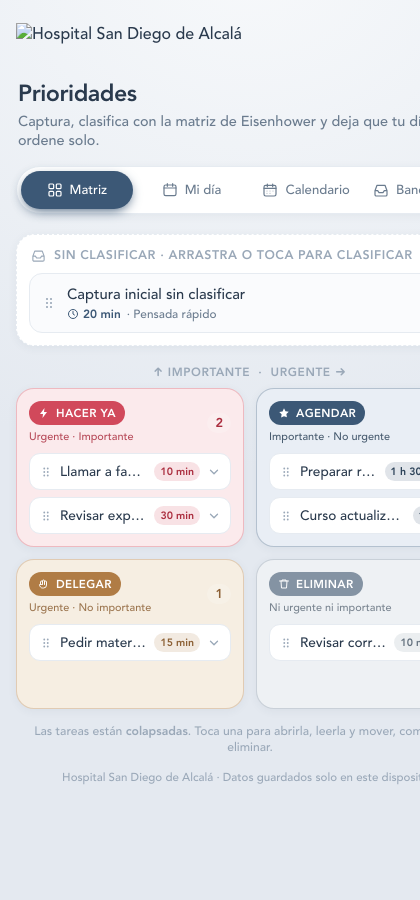
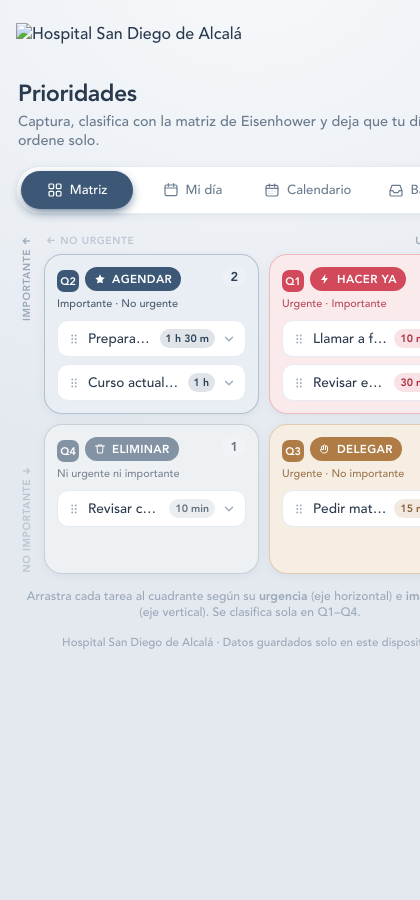
Matriz estilo Eisenhower: ejes Importante/Urgente y cuadrantes Q1-Q4
- Ejes visibles: vertical Importante↑, horizontal Urgente→
- Rejilla 2x2 en orden clásico (Q2|Q1 arriba, Q4|Q3 abajo)
- Badge numerado Q1-Q4 en cada cuadrante y en el panel móvil
- Al soltar una tarea en un cuadrante se clasifica automáticamente
- Instructivo actualizado con el diagrama de la matriz

diff --git a/index.html b/index.html
@@ -170,16 +170,24 @@
   .mini svg { width: 15px; height: 15px; }
   .mini.ok:hover, .mini.ok.on { color: #fff; background: var(--plan); border-color: var(--plan); }
 
-  /* Matrix */
-  .axis-top { text-align: center; font-size: .74rem; font-weight: 800; letter-spacing: .05em; text-transform: uppercase; color: var(--ink-faint); margin-bottom: 8px; }
-  .matrix { display: grid; grid-template-columns: minmax(0, 1fr) minmax(0, 1fr); gap: 12px; }
+  /* Matriz con ejes Importante/Urgente */
+  .matrix-shell { display: flex; gap: 6px; align-items: stretch; }
+  .axis-y { width: 22px; flex-shrink: 0; display: flex; flex-direction: column; justify-content: space-between; align-items: center; padding: 2px 0; }
+  .axis-y .axis-label { writing-mode: vertical-rl; transform: rotate(180deg); font-size: .64rem; font-weight: 800; letter-spacing: .06em; text-transform: uppercase; color: var(--ink-faint); white-space: nowrap; }
+  .axis-y .axis-label.faint { opacity: .55; }
+  .matrix-body { flex: 1; min-width: 0; display: flex; flex-direction: column; gap: 6px; }
+  .axis-x { display: flex; justify-content: space-between; padding: 0 2px; }
+  .axis-x .axis-label { font-size: .64rem; font-weight: 800; letter-spacing: .06em; text-transform: uppercase; color: var(--ink-faint); }
+  .axis-x .axis-label.faint { opacity: .55; }
+  .matrix { display: grid; grid-template-columns: minmax(0, 1fr) minmax(0, 1fr); gap: 10px; }
   .quad { min-width: 0; border-radius: 18px; padding: 12px; min-height: 150px; border: 1.5px solid var(--qline); background: var(--qsoft); box-shadow: var(--shadow-sm); display: flex; flex-direction: column; transition: outline .15s, transform .15s; }
   .quad.q-do    { --qc: var(--do);    --qd: var(--do-deep);    --qsoft: var(--do-soft);    --qline: color-mix(in srgb, var(--do) 30%, transparent); }
   .quad.q-plan  { --qc: var(--plan);  --qd: var(--plan-deep);  --qsoft: var(--plan-soft);  --qline: color-mix(in srgb, var(--plan) 30%, transparent); }
   .quad.q-deleg { --qc: var(--deleg); --qd: var(--deleg-deep); --qsoft: var(--deleg-soft); --qline: color-mix(in srgb, var(--deleg) 30%, transparent); }
   .quad.q-del   { --qc: var(--del);   --qd: var(--del-deep);   --qsoft: var(--del-soft);   --qline: color-mix(in srgb, var(--del) 35%, transparent); }
   .quad.over { outline: 2.5px dashed var(--qc); outline-offset: 2px; transform: translateY(-2px); }
-  .quad-head { display: flex; align-items: center; justify-content: space-between; margin-bottom: 9px; }
+  .quad-head { display: flex; align-items: flex-start; justify-content: space-between; margin-bottom: 9px; gap: 6px; }
+  .quad-num { display: inline-grid; place-items: center; width: 22px; height: 22px; border-radius: 7px; font-size: .68rem; font-weight: 800; color: #fff; background: var(--qc); margin-right: 6px; vertical-align: middle; }
   .quad-tag { display: inline-flex; align-items: center; gap: 6px; font-size: .72rem; font-weight: 800; letter-spacing: .03em; color: #fff; background: var(--qc); padding: 4px 9px; border-radius: 100px; }
   .quad-tag svg { width: 12px; height: 12px; }
   .quad-sub { font-size: .68rem; color: var(--qd); font-weight: 500; opacity: .85; }
@@ -249,6 +257,7 @@
   .sheet-opt { border: 1.5px solid var(--qline); background: var(--qsoft); color: var(--qd); border-radius: 14px; padding: 12px; font-family: inherit; font-weight: 800; font-size: .82rem; cursor: pointer; text-align: left; display: flex; flex-direction: column; gap: 3px; transition: transform .15s; }
   .sheet-opt:active { transform: scale(.96); }
   .sheet-opt small { font-weight: 500; font-size: .68rem; opacity: .8; }
+  .sheet-opt .sheet-q { display: inline-grid; place-items: center; width: 18px; height: 18px; border-radius: 6px; font-size: .62rem; font-weight: 800; color: #fff; background: var(--qc); margin-right: 6px; }
   .sheet-opt.q-do    { --qc: var(--do);    --qd: var(--do-deep);    --qsoft: var(--do-soft);    --qline: color-mix(in srgb, var(--do) 30%, transparent); }
   .sheet-opt.q-plan  { --qc: var(--plan);  --qd: var(--plan-deep);  --qsoft: var(--plan-soft);  --qline: color-mix(in srgb, var(--plan) 30%, transparent); }
   .sheet-opt.q-deleg { --qc: var(--deleg); --qd: var(--deleg-deep); --qsoft: var(--deleg-soft); --qline: color-mix(in srgb, var(--deleg) 30%, transparent); }
@@ -338,11 +347,19 @@ const MINS = [5, 10, 15, 30, 45, 60, 90, 120];
 const fmtMins = (m) => m >= 60 ? (m % 60 === 0 ? (m/60) + " h" : Math.floor(m/60) + " h " + (m%60) + " m") : m + " min";
 
 /* ---------------- Cuadrantes ---------------- */
+/* Modelo clásico de Eisenhower:
+   Eje vertical = Importante (arriba) / No importante (abajo)
+   Eje horizontal = Urgente (derecha) / No urgente (izquierda)
+   Q1 = Hacer ya  (urgente + importante)     — arriba derecha
+   Q2 = Agendar   (importante + no urgente)  — arriba izquierda
+   Q3 = Delegar   (urgente + no importante)  — abajo derecha
+   Q4 = Eliminar  (no urgente + no importante)— abajo izquierda
+   Al soltar una tarea en un cuadrante se asigna automáticamente su clasificación. */
 const QUADS = {
-  do:    { key:"do",    label:"HACER YA",  sub:"Urgente · Importante",     icon:I.bolt, cls:"q-do" },
-  plan:  { key:"plan",  label:"AGENDAR",   sub:"Importante · No urgente",  icon:I.star, cls:"q-plan" },
-  deleg: { key:"deleg", label:"DELEGAR",   sub:"Urgente · No importante",  icon:I.hand, cls:"q-deleg" },
-  del:   { key:"del",   label:"ELIMINAR",  sub:"Ni urgente ni importante", icon:I.trash, cls:"q-del" },
+  do:    { key:"do",    num:1, label:"HACER YA",  sub:"Urgente · Importante",      icon:I.bolt,  cls:"q-do",    urgent:true,  important:true  },
+  plan:  { key:"plan",  num:2, label:"AGENDAR",   sub:"Importante · No urgente",   icon:I.star,  cls:"q-plan",  urgent:false, important:true  },
+  deleg: { key:"deleg", num:3, label:"DELEGAR",   sub:"Urgente · No importante",   icon:I.hand,  cls:"q-deleg", urgent:true,  important:false },
+  del:   { key:"del",   num:4, label:"ELIMINAR",  sub:"Ni urgente ni importante",  icon:I.trash, cls:"q-del",   urgent:false, important:false },
 };
 const QUAD_ORDER = ["do","plan","deleg","del"];
 
@@ -594,6 +611,12 @@ function BandejaView({ title, setTitle, note, setNote, due, setDue, mins, setMin
 }
 
 /* ---------------- Matriz ---------------- */
+/* Orden de dibujo en la rejilla 2x2 (fila, columna):
+   arriba-izq = Q2 (Agendar)  ·  arriba-der = Q1 (Hacer ya)
+   abajo-izq  = Q4 (Eliminar) ·  abajo-der  = Q3 (Delegar)
+   Así coinciden los ejes: Importante↑ arriba, Urgente→ derecha. */
+const QUAD_GRID = ["plan","do","del","deleg"];
+
 function MatrixView({ inbox, pending, counts, onPick, onDragStart, onDropQuad, over, setOver, toggleDone, move, remove }) {
   const [openId, setOpenId] = useState(null);
   return (
@@ -607,42 +630,59 @@ function MatrixView({ inbox, pending, counts, onPick, onDragStart, onDropQuad, o
         </div>
       )}
 
-      <div className="axis-top">↑ Importante &nbsp;·&nbsp; Urgente →</div>
-      <div className="matrix">
-        {QUAD_ORDER.map(q => {
-          const Q = QUADS[q];
-          const items = pending(q);
-          return (
-            <div key={q}
-                 className={"quad " + Q.cls + (over === q ? " over" : "")}
-                 onDragOver={(e) => { e.preventDefault(); setOver(q); }}
-                 onDragLeave={() => setOver(o => o === q ? null : o)}
-                 onDrop={(e) => { e.preventDefault(); onDropQuad(q); }}>
-              <div className="quad-head">
-                <div>
-                  <span className="quad-tag">{Q.icon}{Q.label}</span>
-                  <div className="quad-sub" style={{ marginTop: 4 }}>{Q.sub}</div>
+      <div className="matrix-shell">
+        {/* Eje vertical: Importante */}
+        <div className="axis-y">
+          <span className="axis-label">Importante ↑</span>
+          <span className="axis-label faint">No importante ↓</span>
+        </div>
+
+        <div className="matrix-body">
+          {/* Eje horizontal */}
+          <div className="axis-x">
+            <span className="axis-label faint">← No urgente</span>
+            <span className="axis-label">Urgente →</span>
+          </div>
+
+          {/* Rejilla 2x2 */}
+          <div className="matrix">
+            {QUAD_GRID.map(q => {
+              const Q = QUADS[q];
+              const items = pending(q);
+              return (
+                <div key={q}
+                     className={"quad " + Q.cls + (over === q ? " over" : "")}
+                     onDragOver={(e) => { e.preventDefault(); setOver(q); }}
+                     onDragLeave={() => setOver(o => o === q ? null : o)}
+                     onDrop={(e) => { e.preventDefault(); onDropQuad(q); }}>
+                  <div className="quad-head">
+                    <div>
+                      <span className="quad-num">Q{Q.num}</span>
+                      <span className="quad-tag">{Q.icon}{Q.label}</span>
+                      <div className="quad-sub" style={{ marginTop: 4 }}>{Q.sub}</div>
+                    </div>
+                    {items.length > 0 && <span className="quad-n">{items.length}</span>}
+                  </div>
+                  {items.length === 0 ? (
+                    <div className="quad-empty">Suelta aquí → {Q.label}</div>
+                  ) : (
+                    <div className="chips">
+                      {items.map(t => (
+                        <MatrixChip key={t.id} t={t} q={q}
+                          open={openId === t.id}
+                          onToggleOpen={() => setOpenId(o => o === t.id ? null : t.id)}
+                          onDragStart={onDragStart} onMove={move} onDone={toggleDone} onRemove={remove} />
+                      ))}
+                    </div>
+                  )}
                 </div>
-                {items.length > 0 && <span className="quad-n">{items.length}</span>}
-              </div>
-              {items.length === 0 ? (
-                <div className="quad-empty">Suelta tareas aquí</div>
-              ) : (
-                <div className="chips">
-                  {items.map(t => (
-                    <MatrixChip key={t.id} t={t} q={q}
-                      open={openId === t.id}
-                      onToggleOpen={() => setOpenId(o => o === t.id ? null : t.id)}
-                      onDragStart={onDragStart} onMove={move} onDone={toggleDone} onRemove={remove} />
-                  ))}
-                </div>
-              )}
-            </div>
-          );
-        })}
+              );
+            })}
+          </div>
+        </div>
       </div>
       <div className="qa-hint" style={{ marginTop: 14, textAlign: "center" }}>
-        Las tareas están <b>colapsadas</b>. Toca una para abrirla, leerla y mover, completar o eliminar.
+        Arrastra cada tarea al cuadrante según su <b>urgencia</b> (eje horizontal) e <b>importancia</b> (eje vertical). Se clasifica sola en Q1–Q4.
       </div>
     </>
   );
@@ -946,11 +986,11 @@ function Sheet({ task, onClose, onMove, onDone, onRemove }) {
         <h3>{task.title}</h3>
         <div className="sub">{fmtMins(task.mins || 30)}{di ? " · " + di.text : ""}{task.note ? " · " + task.note : ""}</div>
         <div className="sheet-grid">
-          {QUAD_ORDER.map(q => {
+          {QUAD_GRID.map(q => {
             const Q = QUADS[q];
             return (
               <button key={q} className={"sheet-opt " + Q.cls} onClick={() => onMove(q)}>
-                {Q.label}<small>{Q.sub}</small>
+                <span className="sheet-q">Q{Q.num}</span>{Q.label}<small>{Q.sub}</small>
               </button>
             );
           })}

diff --git a/INSTRUCTIVO.md b/INSTRUCTIVO.md
@@ -102,21 +102,38 @@ La tarea aparecerá abajo en **"Sin clasificar"**, esperando a que la clasifique
 
 ## Paso 2 · Clasificar con la Matriz
 
-La **Matriz** distribuye tus tareas en 4 cuadrantes según **urgencia** e **importancia**.
+La **Matriz** distribuye tus tareas en 4 cuadrantes según **urgencia** (eje horizontal) e **importancia** (eje vertical), con la organización clásica de Eisenhower y cada cuadrante numerado de **Q1 a Q4**.
 
 ![Vista Matriz](docs/shot-matriz.png)
 
+### Cómo leer la matriz
+
+```
+                     ← No urgente        Urgente →
+                 ┌─────────────────┬─────────────────┐
+  Importante ↑   │   Q2 · AGENDAR  │  Q1 · HACER YA  │
+                 ├─────────────────┼─────────────────┤
+  No importante ↓│  Q4 · ELIMINAR  │  Q3 · DELEGAR   │
+                 └─────────────────┴─────────────────┘
+```
+
+- **Eje vertical** (↑↓): arriba = Importante · abajo = No importante
+- **Eje horizontal** (←→): izquierda = No urgente · derecha = Urgente
+- Cada cuadrante tiene su **badge Q1–Q4** y su etiqueta (Hacer ya, Agendar, Delegar, Eliminar).
+
 ### Cómo clasificar una tarea
+
+Al soltar una tarea en un cuadrante, **se clasifica automáticamente** en su categoría:
 
 **En computadora (arrastrar):**
 1. Ve a la pestaña **Matriz**.
-2. Arrastra la tarea desde "Sin clasificar" (o desde otro cuadrante) hacia el cuadrante que corresponda.
-3. Suelta. La tarea queda ahí.
+2. Arrastra la tarea desde "Sin clasificar" (o desde otro cuadrante) hacia el cuadrante que corresponda según su urgencia e importancia.
+3. Suelta. La tarea queda asignada a ese Q1–Q4.
 
 **En celular (tocar):**
 1. Toca la tarea que quieres clasificar.
-2. Se abre un **panel** abajo con las 4 opciones.
-3. Toca el cuadrante destino: **Hacer ya**, **Agendar**, **Delegar** o **Eliminar**.
+2. Se abre un **panel** abajo con las 4 opciones numeradas (Q1–Q4).
+3. Toca el cuadrante destino: **Q1 Hacer ya**, **Q2 Agendar**, **Q3 Delegar** o **Q4 Eliminar**.
 
 ### Revisar una tarea dentro de la matriz
 
@@ -191,12 +208,12 @@ Esta es la ventaja clave: puedes, en un solo rato, **capturar y programar toda l
 
 ## Los 4 cuadrantes de Eisenhower
 
-| Cuadrante | Color | Significado | Qué hacer |
-|---|---|---|---|
-| **HACER YA** | 🔴 | Urgente **e** importante | Hazlo hoy, cuanto antes |
-| **AGENDAR** | 🔵 | Importante, **no** urgente | Programarlo con tiempo, no dejarlo al último |
-| **DELEGAR** | 🟤 | Urgente, **no** importante | Pásalo a alguien del equipo |
-| **ELIMINAR** | ⚪ | Ni urgente ni importante | Revísalo; probablemente no aporta — elimínalo |
+| # | Cuadrante | Color | Significado | Qué hacer |
+|---|---|---|---|---|
+| **Q1** | **HACER YA** | 🔴 | Urgente **e** importante | Hazlo hoy, cuanto antes |
+| **Q2** | **AGENDAR** | 🔵 | Importante, **no** urgente | Programarlo con tiempo, no dejarlo al último |
+| **Q3** | **DELEGAR** | 🟤 | Urgente, **no** importante | Pásalo a alguien del equipo |
+| **Q4** | **ELIMINAR** | ⚪ | Ni urgente ni importante | Revísalo; probablemente no aporta — elimínalo |
 
 **Guía rápida para decidir:**
 - ¿Pasa algo grave si no lo hago hoy? → **Urgente**